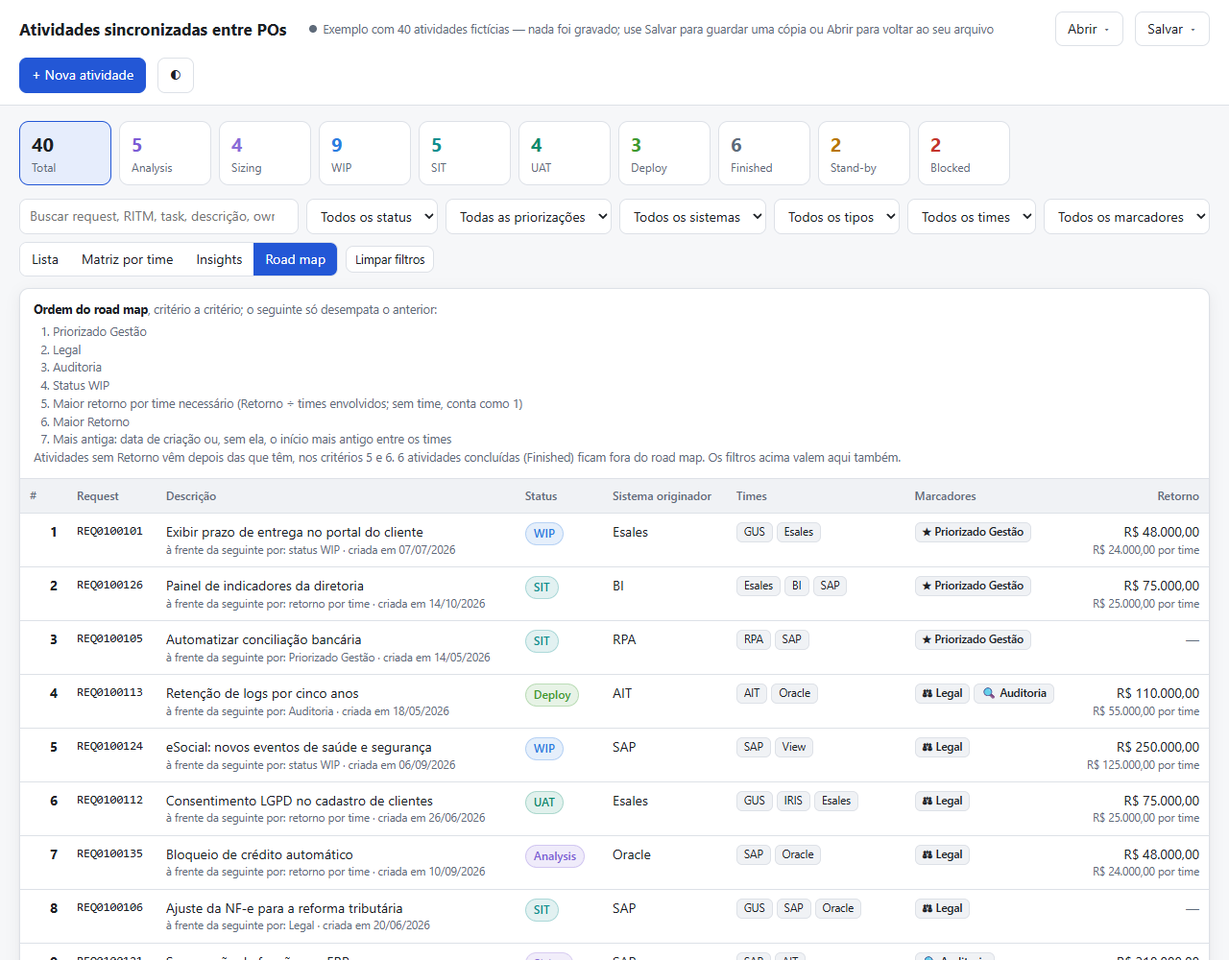
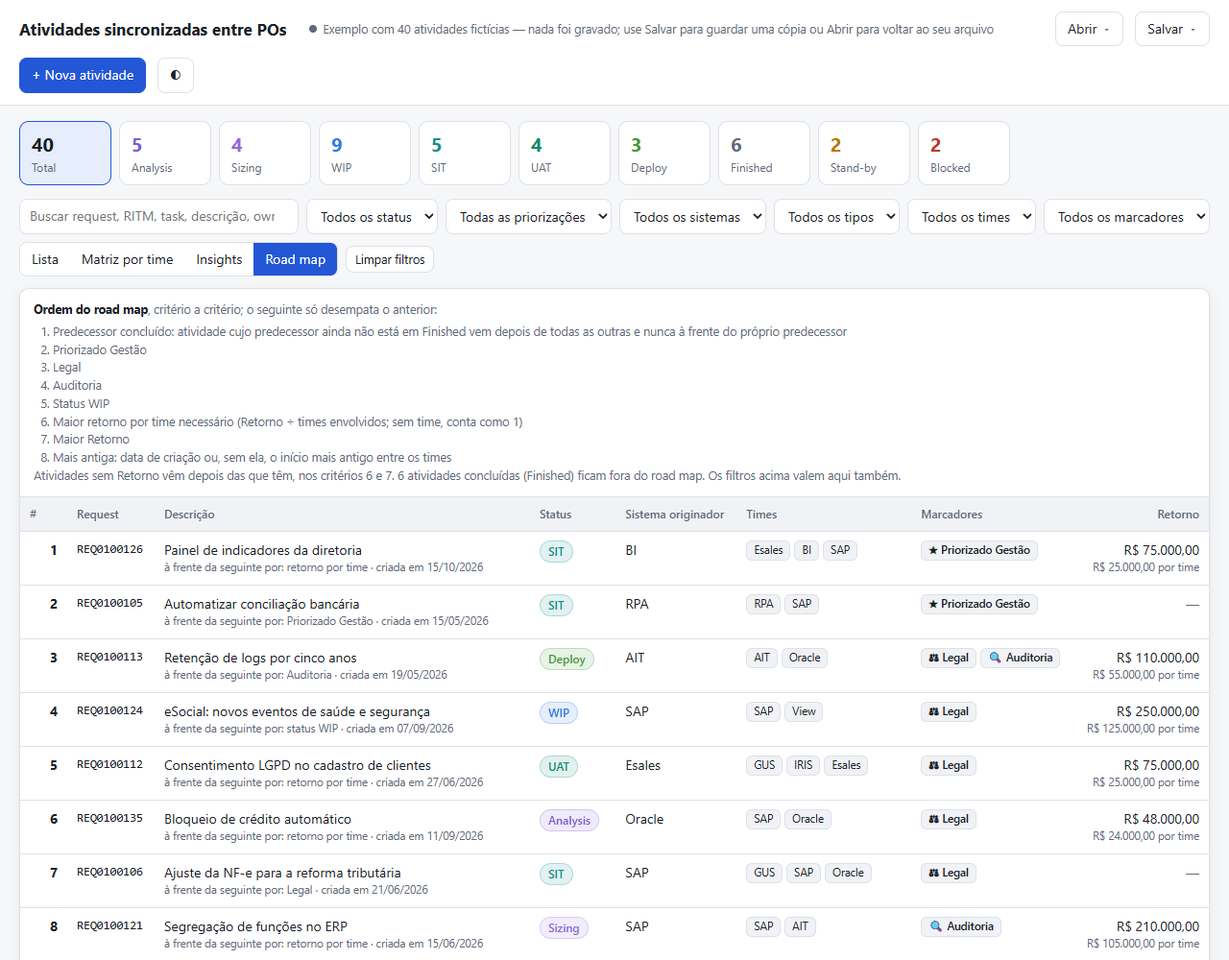
giova(DESKTOP-MGAILV5) 261127095018

diff --git a/AtividadesPO.html b/AtividadesPO.html
@@ -471,7 +471,7 @@ Depois, use Salvar › Salvar JSON para guardar.</pre>
         <li>Clique em <strong>+ Nova atividade</strong>, preencha o Request, escolha Status, Tipo e Sistema originador, digite um Retorno, abra o time <strong>BI</strong>, preencha a task e uma data de SIT e salve. A atividade aparece no topo da lista.</li>
         <li>Clique em <strong>Matriz por time</strong> e localize a nova atividade na coluna BI.</li>
         <li>Clique em <strong>Insights</strong>. No mapa <strong>Times × status</strong>, clique numa célula: o app volta para a lista com o time e o status filtrados.</li>
-        <li>Clique em <strong>Road map</strong>. A primeira posição é a REQ0100101, que tem Priorizado Gestão e está em WIP. Abaixo de cada descrição, o app diz qual critério decidiu a posição.</li>
+        <li>Clique em <strong>Road map</strong>. A primeira posição é a REQ0100126, que tem Priorizado Gestão. A REQ0100101, também Priorizado Gestão e em WIP, aparece entre as últimas, com <strong>⚠ aguarda o predecessor REQ0100114 (Sizing)</strong>, logo depois da própria REQ0100114. Abaixo de cada descrição, o app diz qual critério decidiu a posição.</li>
         <li>Clique em <strong>Salvar › Salvar Excel</strong>. O navegador baixa a planilha <code>Atividades entre POs AAAAMMDD HHmmSS.xlsx</code>.</li>
         <li>Abra a planilha no Excel. Na aba <strong>Atividades</strong>, mude o Status da REQ0100101 para <strong>SIT</strong> e salve no formato .xlsx.</li>
         <li>No app, clique em <strong>Abrir › Abrir Excel</strong> e escolha a planilha. O resumo diz “A planilha tem 41 atividades: 0 novas, 1 alterada, 40 sem alteração”; confirme. Na lista, a REQ0100101 aparece em SIT.</li>
@@ -548,11 +548,11 @@ Depois, use Salvar › Salvar JSON para guardar.</pre>
       <h2 id="h-roadmap-pt">Road map</h2>
       <p>A área <strong>Road map</strong> põe as atividades não concluídas numa ordem de prioridade. Cada critério só desempata o anterior:</p>
       <figure>
-        <img src="rc_images/AtividadesPORoadmap.png" alt="Road map com o exemplo: a explicação dos sete critérios de ordem e a tabela com posição, request, descrição com o critério que decidiu a posição, status, sistema originador, times, marcadores e retorno com o valor por time; nas primeiras posições, as atividades Priorizado Gestão, seguidas das marcadas Legal e Auditoria" loading="lazy" width="1280" height="1000">
+        <img src="rc_images/AtividadesPORoadmap.png" alt="Road map com o exemplo: a explicação dos oito critérios de ordem e a tabela com posição, request, descrição com o critério que decidiu a posição, status, sistema originador, times, marcadores e retorno com o valor por time; nas primeiras posições, as atividades Priorizado Gestão, seguidas das marcadas Legal e Auditoria" loading="lazy" width="1280" height="1000">
         <figcaption>O road map do exemplo. Abaixo de cada descrição, o critério que pôs a atividade à frente da seguinte.</figcaption>
       </figure>
-      <ol><li>Priorizado Gestão;</li><li>Legal;</li><li>Auditoria;</li><li>status WIP;</li><li>maior retorno por time necessário: o Retorno dividido pelo número de times envolvidos (sem time, conta como 1), o que favorece valor alto com poucos times;</li><li>maior Retorno;</li><li>mais antiga: a data de criação ou, sem ela, o início mais antigo entre os times.</li></ol>
-      <p>Atividades sem Retorno vêm depois das que têm, nos critérios 5 e 6, e as que estão em Finished ficam fora. A tabela traz posição, Request, Descrição, Status, Sistema originador, Times, Marcadores e Retorno; quando há mais de um time, o retorno por time aparece abaixo do valor. Abaixo de cada descrição, o app diz qual critério pôs a atividade à frente da seguinte. Os filtros valem também aqui. Clique numa linha, ou chegue a ela com <kbd>Tab</kbd> e tecle <kbd>Enter</kbd>, para abrir a atividade.</p>
+      <ol><li>predecessor concluído: atividade cujo predecessor ainda não está em Finished vem depois de todas as outras, mesmo com Priorizado Gestão, e nunca à frente do próprio predecessor;</li><li>Priorizado Gestão;</li><li>Legal;</li><li>Auditoria;</li><li>status WIP;</li><li>maior retorno por time necessário: o Retorno dividido pelo número de times envolvidos (sem time, conta como 1), o que favorece valor alto com poucos times;</li><li>maior Retorno;</li><li>mais antiga: a data de criação ou, sem ela, o início mais antigo entre os times.</li></ol>
+      <p>Atividades sem Retorno vêm depois das que têm, nos critérios 6 e 7, e as que estão em Finished ficam fora. Abaixo da descrição de uma atividade bloqueada aparece <strong>⚠ aguarda o predecessor</strong>, com o request e o status dele; quando o predecessor passa a Finished, ela volta a disputar posição pelos outros critérios. A tabela traz posição, Request, Descrição, Status, Sistema originador, Times, Marcadores e Retorno; quando há mais de um time, o retorno por time aparece abaixo do valor. Abaixo de cada descrição, o app diz qual critério pôs a atividade à frente da seguinte. Os filtros valem também aqui. Clique numa linha, ou chegue a ela com <kbd>Tab</kbd> e tecle <kbd>Enter</kbd>, para abrir a atividade.</p>
       <blockquote>A ordem é uma sugestão a partir dos campos preenchidos. Retorno em branco ou desatualizado muda a posição, então revise os valores antes de levar o road map a uma reunião.</blockquote>
       <a class="back" href="#top">↑ Voltar ao topo</a>
     </section>
@@ -599,6 +599,7 @@ Depois, use Salvar › Salvar JSON para guardar.</pre>
             <tr><th scope="row">Priorização: Priorizar · Priorizado · Esperando</th><td>Prioritization: Prioritize · Prioritized · Waiting</td><td>Priorità: Da priorizzare · Priorizzata · In attesa</td><td>Priorización: Priorizar · Priorizado · Esperando</td></tr>
             <tr><th scope="row">Sistema originador</th><td>Originating system</td><td>Sistema di origine</td><td>Sistema de origen</td></tr>
             <tr><th scope="row">Road map · Ordem do road map · à frente da seguinte por · por time</th><td>Road map · Road map order · ahead of the next one by · per team</td><td>Road map · Ordine del road map · davanti alla successiva per · per team</td><td>Road map · Orden del road map · delante de la siguiente por · por equipo</td></tr>
+            <tr><th scope="row">predecessor concluído · aguarda o predecessor · é a predecessora dela</th><td>predecessor finished · waiting for the predecessor · it is its predecessor</td><td>predecessore concluso · in attesa del predecessore · è la sua predecessora</td><td>predecesora terminada · espera a la predecesora · es su predecesora</td></tr>
             <tr><th scope="row">Marcadores · Legal · Auditoria · Priorizado Gestão · Todos os marcadores</th><td>Flags · Legal · Audit · Prioritized by management · All flags</td><td>Contrassegni · Legale · Audit · Prioritaria per la direzione · Tutti i contrassegni</td><td>Marcadores · Legal · Auditoría · Priorizado por la gerencia · Todos los marcadores</td></tr>
             <tr><th scope="row">Retorno (R$) · Retorno somado · ⚠ inválido</th><td>Return (R$) · Total return · ⚠ invalid</td><td>Ritorno (R$) · Ritorno totale · ⚠ non valido</td><td>Retorno (R$) · Retorno sumado · ⚠ inválido</td></tr>
             <tr><th scope="row">Predecessor · Nenhuma · ⚠ ainda não concluída</th><td>Predecessor · None · ⚠ not finished yet</td><td>Predecessore · Nessuna · ⚠ non ancora conclusa</td><td>Predecesora · Ninguna · ⚠ aún no terminada</td></tr>
@@ -622,6 +623,7 @@ Depois, use Salvar › Salvar JSON para guardar.</pre>
         <details><summary>5. O gráfico Abertas há mais tempo está vazio. Por quê?</summary><p>Ele usa a data de início dos times. Sem datas de início preenchidas, não há como calcular há quanto tempo a atividade está aberta.</p></details>
         <details><summary>6. Você apagou uma linha na aba Atividades da planilha e importou. O que acontece com a atividade?</summary><p>Ela é removida do app. O resumo antes da importação avisa quantas atividades serão removidas, e você pode cancelar.</p></details>
         <details><summary>7. Como o app sabe a que atividade pertence uma linha da aba Times?</summary><p>Pelo Request. Ele precisa ser igual nas duas abas e aparecer uma única vez na aba Atividades.</p></details>
+        <details><summary>8. Uma atividade com Priorizado Gestão aparece no fim do road map. Por quê?</summary><p>Porque o predecessor dela ainda não está em Finished. Esse é o primeiro critério da ordem: ela só sobe quando o predecessor for concluído.</p></details>
       </div>
       <a class="back" href="#top">↑ Voltar ao topo</a>
     </section>
@@ -851,7 +853,7 @@ Depois, use Salvar › Salvar JSON para guardar.</pre>
         <li>Click <strong>+ Nova atividade</strong>, fill in the Request, choose Status, Type and Originating system, type a Retorno, open the <strong>BI</strong> team, fill in the task and a SIT date and save. The activity appears at the top of the list.</li>
         <li>Click <strong>Matriz por time</strong> and find the new activity in the BI column.</li>
         <li>Click <strong>Insights</strong>. In the <strong>Times × status</strong> map, click a cell: the app goes back to the list with that team and status filtered.</li>
-        <li>Click <strong>Road map</strong>. The first position is REQ0100101, which has Priorizado Gestão and is in WIP. Under each description, the app says which criterion decided the position.</li>
+        <li>Click <strong>Road map</strong>. The first position is REQ0100126, which has Priorizado Gestão. REQ0100101, also Priorizado Gestão and in WIP, appears among the last ones, with <strong>⚠ aguarda o predecessor REQ0100114 (Sizing)</strong> (waiting for the predecessor), right after REQ0100114 itself. Under each description, the app says which criterion decided the position.</li>
         <li>Click <strong>Salvar › Salvar Excel</strong>. The browser downloads the spreadsheet <code>Atividades entre POs YYYYMMDD HHmmSS.xlsx</code>.</li>
         <li>Open the spreadsheet in Excel. In the <strong>Atividades</strong> tab, change the Status of REQ0100101 to <strong>SIT</strong> and save it as .xlsx.</li>
         <li>In the app, click <strong>Abrir › Abrir Excel</strong> and choose the spreadsheet. The summary says “A planilha tem 41 atividades: 0 novas, 1 alterada, 40 sem alteração” (41 activities: 0 new, 1 changed, 40 unchanged); confirm. In the list, REQ0100101 shows SIT.</li>
@@ -928,11 +930,11 @@ Depois, use Salvar › Salvar JSON para guardar.</pre>
       <h2 id="h-roadmap-en">Road map</h2>
       <p>The <strong>Road map</strong> view puts the unfinished activities in priority order. Each criterion only breaks ties of the one before:</p>
       <figure>
-        <img src="rc_images/AtividadesPORoadmap.png" alt="Road map with the sample: the explanation of the seven ordering criteria and the table with position, request, description with the criterion that decided the position, status, originating system, teams, flags and return with the value per team; in the first positions, the Priorizado Gestão activities, followed by those flagged Legal and Auditoria" loading="lazy" width="1280" height="1000">
+        <img src="rc_images/AtividadesPORoadmap.png" alt="Road map with the sample: the explanation of the eight ordering criteria and the table with position, request, description with the criterion that decided the position, status, originating system, teams, flags and return with the value per team; in the first positions, the Priorizado Gestão activities, followed by those flagged Legal and Auditoria" loading="lazy" width="1280" height="1000">
         <figcaption>The road map of the sample. Under each description, the criterion that put the activity ahead of the next one.</figcaption>
       </figure>
-      <ol><li>Priorizado Gestão (prioritized by management);</li><li>Legal;</li><li>Auditoria (audit);</li><li>WIP status;</li><li>highest return per team needed: Retorno divided by the number of teams involved (no team counts as 1), which favors high value with few teams;</li><li>highest Retorno;</li><li>oldest: the creation date or, without it, the earliest start among the teams.</li></ol>
-      <p>Activities without Retorno come after those with one in criteria 5 and 6, and those in Finished are left out. The table shows position, Request, Description, Status, Originating system, Teams, Flags and Return; when there is more than one team, the return per team appears below the value. Under each description, the app says which criterion put the activity ahead of the next one. The filters apply here too. Click a row, or reach it with <kbd>Tab</kbd> and press <kbd>Enter</kbd>, to open the activity.</p>
+      <ol><li>predecessor finished: an activity whose predecessor is not yet in Finished comes after all the others, even with Priorizado Gestão, and never ahead of its own predecessor;</li><li>Priorizado Gestão (prioritized by management);</li><li>Legal;</li><li>Auditoria (audit);</li><li>WIP status;</li><li>highest return per team needed: Retorno divided by the number of teams involved (no team counts as 1), which favors high value with few teams;</li><li>highest Retorno;</li><li>oldest: the creation date or, without it, the earliest start among the teams.</li></ol>
+      <p>Activities without Retorno come after those with one in criteria 6 and 7, and those in Finished are left out. Under the description of a blocked activity the app shows <strong>⚠ aguarda o predecessor</strong> (waiting for the predecessor), with its request and status; once the predecessor moves to Finished, the activity competes for position again by the other criteria. The table shows position, Request, Description, Status, Originating system, Teams, Flags and Return; when there is more than one team, the return per team appears below the value. Under each description, the app says which criterion put the activity ahead of the next one. The filters apply here too. Click a row, or reach it with <kbd>Tab</kbd> and press <kbd>Enter</kbd>, to open the activity.</p>
       <blockquote>The order is a suggestion based on the fields filled in. A blank or outdated Retorno changes the position, so review the values before taking the road map to a meeting.</blockquote>
       <a class="back" href="#top">↑ Back to top</a>
     </section>
@@ -979,6 +981,7 @@ Depois, use Salvar › Salvar JSON para guardar.</pre>
             <tr><th scope="row">Priorização: Priorizar · Priorizado · Esperando</th><td>Prioritization: Prioritize · Prioritized · Waiting</td><td>Priorità: Da priorizzare · Priorizzata · In attesa</td><td>Priorización: Priorizar · Priorizado · Esperando</td></tr>
             <tr><th scope="row">Sistema originador</th><td>Originating system</td><td>Sistema di origine</td><td>Sistema de origen</td></tr>
             <tr><th scope="row">Road map · Ordem do road map · à frente da seguinte por · por time</th><td>Road map · Road map order · ahead of the next one by · per team</td><td>Road map · Ordine del road map · davanti alla successiva per · per team</td><td>Road map · Orden del road map · delante de la siguiente por · por equipo</td></tr>
+            <tr><th scope="row">predecessor concluído · aguarda o predecessor · é a predecessora dela</th><td>predecessor finished · waiting for the predecessor · it is its predecessor</td><td>predecessore concluso · in attesa del predecessore · è la sua predecessora</td><td>predecesora terminada · espera a la predecesora · es su predecesora</td></tr>
             <tr><th scope="row">Marcadores · Legal · Auditoria · Priorizado Gestão · Todos os marcadores</th><td>Flags · Legal · Audit · Prioritized by management · All flags</td><td>Contrassegni · Legale · Audit · Prioritaria per la direzione · Tutti i contrassegni</td><td>Marcadores · Legal · Auditoría · Priorizado por la gerencia · Todos los marcadores</td></tr>
             <tr><th scope="row">Retorno (R$) · Retorno somado · ⚠ inválido</th><td>Return (R$) · Total return · ⚠ invalid</td><td>Ritorno (R$) · Ritorno totale · ⚠ non valido</td><td>Retorno (R$) · Retorno sumado · ⚠ inválido</td></tr>
             <tr><th scope="row">Predecessor · Nenhuma · ⚠ ainda não concluída</th><td>Predecessor · None · ⚠ not finished yet</td><td>Predecessore · Nessuna · ⚠ non ancora conclusa</td><td>Predecesora · Ninguna · ⚠ aún no terminada</td></tr>
@@ -1002,6 +1005,7 @@ Depois, use Salvar › Salvar JSON para guardar.</pre>
         <details><summary>5. The Open the longest chart is empty. Why?</summary><p>It uses the teams' start dates. Without start dates there is no way to compute how long the activity has been open.</p></details>
         <details><summary>6. You deleted a row in the Atividades tab of the spreadsheet and imported it. What happens to the activity?</summary><p>It is removed from the app. The summary before the import says how many activities will be removed, and you can cancel.</p></details>
         <details><summary>7. How does the app know which activity a row of the Times tab belongs to?</summary><p>By the Request. It has to be the same in both tabs and appear only once in the Atividades tab.</p></details>
+        <details><summary>8. An activity with Priorizado Gestão shows up at the end of the road map. Why?</summary><p>Because its predecessor is not yet in Finished. That is the first ordering criterion: it only moves up once the predecessor is finished.</p></details>
       </div>
       <a class="back" href="#top">↑ Back to top</a>
     </section>
@@ -1231,7 +1235,7 @@ Depois, use Salvar › Salvar JSON para guardar.</pre>
         <li>Fai clic su <strong>+ Nova atividade</strong>, compila la Request, scegli Stato, Tipo e Sistema di origine, scrivi un Retorno, apri il team <strong>BI</strong>, compila il task e una data di SIT e salva. L'attività compare in cima all'elenco.</li>
         <li>Fai clic su <strong>Matriz por time</strong> e trova la nuova attività nella colonna BI.</li>
         <li>Fai clic su <strong>Insights</strong>. Nella mappa <strong>Times × status</strong>, fai clic su una cella: l'app torna all'elenco con quel team e quello stato filtrati.</li>
-        <li>Fai clic su <strong>Road map</strong>. La prima posizione è REQ0100101, che ha Priorizado Gestão ed è in WIP. Sotto ogni descrizione, l'app indica quale criterio ha deciso la posizione.</li>
+        <li>Fai clic su <strong>Road map</strong>. La prima posizione è REQ0100126, che ha Priorizado Gestão. REQ0100101, anch'essa Priorizado Gestão e in WIP, compare tra le ultime, con <strong>⚠ aguarda o predecessor REQ0100114 (Sizing)</strong> (in attesa del predecessore), subito dopo la stessa REQ0100114. Sotto ogni descrizione, l'app indica quale criterio ha deciso la posizione.</li>
         <li>Fai clic su <strong>Salvar › Salvar Excel</strong>. Il browser scarica il foglio <code>Atividades entre POs AAAAMMGG HHmmSS.xlsx</code>.</li>
         <li>Apri il foglio in Excel. Nella scheda <strong>Atividades</strong>, cambia lo Status di REQ0100101 in <strong>SIT</strong> e salva in formato .xlsx.</li>
         <li>Nell'app, fai clic su <strong>Abrir › Abrir Excel</strong> e scegli il foglio. Il riepilogo dice “A planilha tem 41 atividades: 0 novas, 1 alterada, 40 sem alteração” (41 attività: 0 nuove, 1 modificata, 40 invariate); conferma. Nell'elenco, REQ0100101 appare in SIT.</li>
@@ -1308,11 +1312,11 @@ Depois, use Salvar › Salvar JSON para guardar.</pre>
       <h2 id="h-roadmap-it">Road map</h2>
       <p>La vista <strong>Road map</strong> mette le attività non concluse in ordine di priorità. Ogni criterio serve solo a sciogliere le parità del precedente:</p>
       <figure>
-        <img src="rc_images/AtividadesPORoadmap.png" alt="Road map con l'esempio: la spiegazione dei sette criteri di ordine e la tabella con posizione, request, descrizione con il criterio che ha deciso la posizione, stato, sistema di origine, team, contrassegni e ritorno con il valore per team; nelle prime posizioni, le attività Priorizado Gestão, seguite da quelle contrassegnate Legal e Auditoria" loading="lazy" width="1280" height="1000">
+        <img src="rc_images/AtividadesPORoadmap.png" alt="Road map con l'esempio: la spiegazione degli otto criteri di ordine e la tabella con posizione, request, descrizione con il criterio che ha deciso la posizione, stato, sistema di origine, team, contrassegni e ritorno con il valore per team; nelle prime posizioni, le attività Priorizado Gestão, seguite da quelle contrassegnate Legal e Auditoria" loading="lazy" width="1280" height="1000">
         <figcaption>Il road map dell'esempio. Sotto ogni descrizione, il criterio che ha messo l'attività davanti alla successiva.</figcaption>
       </figure>
-      <ol><li>Priorizado Gestão (prioritaria per la direzione);</li><li>Legal (legale);</li><li>Auditoria (audit);</li><li>stato WIP;</li><li>maggior ritorno per team necessario: il Retorno diviso per il numero di team coinvolti (senza team conta come 1), il che favorisce valore alto con pochi team;</li><li>maggior Retorno;</li><li>più vecchia: la data di creazione o, in sua assenza, l'inizio più vecchio tra i team.</li></ol>
-      <p>Le attività senza Retorno vengono dopo quelle che lo hanno, nei criteri 5 e 6, e quelle in Finished restano fuori. La tabella mostra posizione, Request, Descrizione, Stato, Sistema di origine, Team, Contrassegni e Ritorno; con più di un team, il ritorno per team compare sotto il valore. Sotto ogni descrizione, l'app indica quale criterio ha messo l'attività davanti alla successiva. Anche qui valgono i filtri. Fai clic su una riga, o raggiungila con <kbd>Tab</kbd> e premi <kbd>Invio</kbd>, per aprire l'attività.</p>
+      <ol><li>predecessore concluso: un'attività il cui predecessore non è ancora in Finished viene dopo tutte le altre, anche con Priorizado Gestão, e mai davanti al proprio predecessore;</li><li>Priorizado Gestão (prioritaria per la direzione);</li><li>Legal (legale);</li><li>Auditoria (audit);</li><li>stato WIP;</li><li>maggior ritorno per team necessario: il Retorno diviso per il numero di team coinvolti (senza team conta come 1), il che favorisce valore alto con pochi team;</li><li>maggior Retorno;</li><li>più vecchia: la data di creazione o, in sua assenza, l'inizio più vecchio tra i team.</li></ol>
+      <p>Le attività senza Retorno vengono dopo quelle che lo hanno, nei criteri 6 e 7, e quelle in Finished restano fuori. Sotto la descrizione di un'attività bloccata compare <strong>⚠ aguarda o predecessor</strong> (in attesa del predecessore), con il suo request e lo stato; quando il predecessore passa a Finished, l'attività torna a contendersi la posizione con gli altri criteri. La tabella mostra posizione, Request, Descrizione, Stato, Sistema di origine, Team, Contrassegni e Ritorno; con più di un team, il ritorno per team compare sotto il valore. Sotto ogni descrizione, l'app indica quale criterio ha messo l'attività davanti alla successiva. Anche qui valgono i filtri. Fai clic su una riga, o raggiungila con <kbd>Tab</kbd> e premi <kbd>Invio</kbd>, per aprire l'attività.</p>
       <blockquote>L'ordine è un suggerimento basato sui campi compilati. Un Retorno vuoto o non aggiornato cambia la posizione, quindi rivedi i valori prima di portare il road map in una riunione.</blockquote>
       <a class="back" href="#top">↑ Torna su</a>
     </section>
@@ -1359,6 +1363,7 @@ Depois, use Salvar › Salvar JSON para guardar.</pre>
             <tr><th scope="row">Priorização: Priorizar · Priorizado · Esperando</th><td>Prioritization: Prioritize · Prioritized · Waiting</td><td>Priorità: Da priorizzare · Priorizzata · In attesa</td><td>Priorización: Priorizar · Priorizado · Esperando</td></tr>
             <tr><th scope="row">Sistema originador</th><td>Originating system</td><td>Sistema di origine</td><td>Sistema de origen</td></tr>
             <tr><th scope="row">Road map · Ordem do road map · à frente da seguinte por · por time</th><td>Road map · Road map order · ahead of the next one by · per team</td><td>Road map · Ordine del road map · davanti alla successiva per · per team</td><td>Road map · Orden del road map · delante de la siguiente por · por equipo</td></tr>
+            <tr><th scope="row">predecessor concluído · aguarda o predecessor · é a predecessora dela</th><td>predecessor finished · waiting for the predecessor · it is its predecessor</td><td>predecessore concluso · in attesa del predecessore · è la sua predecessora</td><td>predecesora terminada · espera a la predecesora · es su predecesora</td></tr>
             <tr><th scope="row">Marcadores · Legal · Auditoria · Priorizado Gestão · Todos os marcadores</th><td>Flags · Legal · Audit · Prioritized by management · All flags</td><td>Contrassegni · Legale · Audit · Prioritaria per la direzione · Tutti i contrassegni</td><td>Marcadores · Legal · Auditoría · Priorizado por la gerencia · Todos los marcadores</td></tr>
             <tr><th scope="row">Retorno (R$) · Retorno somado · ⚠ inválido</th><td>Return (R$) · Total return · ⚠ invalid</td><td>Ritorno (R$) · Ritorno totale · ⚠ non valido</td><td>Retorno (R$) · Retorno sumado · ⚠ inválido</td></tr>
             <tr><th scope="row">Predecessor · Nenhuma · ⚠ ainda não concluída</th><td>Predecessor · None · ⚠ not finished yet</td><td>Predecessore · Nessuna · ⚠ non ancora conclusa</td><td>Predecesora · Ninguna · ⚠ aún no terminada</td></tr>
@@ -1382,6 +1387,7 @@ Depois, use Salvar › Salvar JSON para guardar.</pre>
         <details><summary>5. Il grafico delle attività aperte da più tempo è vuoto. Perché?</summary><p>Usa le date di inizio dei team. Senza date di inizio non si può calcolare da quanto tempo l'attività è aperta.</p></details>
         <details><summary>6. Hai cancellato una riga nella scheda Atividades del foglio e l'hai importato. Cosa succede all'attività?</summary><p>Viene rimossa dall'app. Il riepilogo prima dell'importazione dice quante attività saranno rimosse, e puoi annullare.</p></details>
         <details><summary>7. Come sa l'app a quale attività appartiene una riga della scheda Times?</summary><p>Dal Request. Deve essere uguale nelle due schede e comparire una sola volta nella scheda Atividades.</p></details>
+        <details><summary>8. Un'attività con Priorizado Gestão compare in fondo al road map. Perché?</summary><p>Perché il suo predecessore non è ancora in Finished. È il primo criterio dell'ordine: sale solo quando il predecessore è concluso.</p></details>
       </div>
       <a class="back" href="#top">↑ Torna su</a>
     </section>
@@ -1611,7 +1617,7 @@ Depois, use Salvar › Salvar JSON para guardar.</pre>
         <li>Haz clic en <strong>+ Nova atividade</strong>, completa el Request, elige Estado, Tipo y Sistema de origen, escribe un Retorno, abre el equipo <strong>BI</strong>, completa la task y una fecha de SIT y guarda. La actividad aparece arriba de la lista.</li>
         <li>Haz clic en <strong>Matriz por time</strong> y ubica la nueva actividad en la columna BI.</li>
         <li>Haz clic en <strong>Insights</strong>. En el mapa <strong>Times × status</strong>, haz clic en una celda: la app vuelve a la lista con ese equipo y ese estado filtrados.</li>
-        <li>Haz clic en <strong>Road map</strong>. La primera posición es REQ0100101, que tiene Priorizado Gestão y está en WIP. Bajo cada descripción, la app dice qué criterio decidió la posición.</li>
+        <li>Haz clic en <strong>Road map</strong>. La primera posición es REQ0100126, que tiene Priorizado Gestão. REQ0100101, también Priorizado Gestão y en WIP, aparece entre las últimas, con <strong>⚠ aguarda o predecessor REQ0100114 (Sizing)</strong> (espera a la predecesora), justo después de la propia REQ0100114. Bajo cada descripción, la app dice qué criterio decidió la posición.</li>
         <li>Haz clic en <strong>Salvar › Salvar Excel</strong>. El navegador descarga la planilla <code>Atividades entre POs AAAAMMDD HHmmSS.xlsx</code>.</li>
         <li>Abre la planilla en Excel. En la hoja <strong>Atividades</strong>, cambia el Status de REQ0100101 a <strong>SIT</strong> y guarda en formato .xlsx.</li>
         <li>En la app, haz clic en <strong>Abrir › Abrir Excel</strong> y elige la planilla. El resumen dice “A planilha tem 41 atividades: 0 novas, 1 alterada, 40 sem alteração” (41 actividades: 0 nuevas, 1 cambiada, 40 sin cambios); confirma. En la lista, REQ0100101 aparece en SIT.</li>
@@ -1688,11 +1694,11 @@ Depois, use Salvar › Salvar JSON para guardar.</pre>
       <h2 id="h-roadmap-es">Road map</h2>
       <p>La vista <strong>Road map</strong> ordena por prioridad las actividades no terminadas. Cada criterio solo desempata el anterior:</p>
       <figure>
-        <img src="rc_images/AtividadesPORoadmap.png" alt="Road map con el ejemplo: la explicación de los siete criterios de orden y la tabla con posición, request, descripción con el criterio que decidió la posición, estado, sistema de origen, equipos, marcadores y retorno con el valor por equipo; en las primeras posiciones, las actividades Priorizado Gestão, seguidas de las marcadas Legal y Auditoria" loading="lazy" width="1280" height="1000">
+        <img src="rc_images/AtividadesPORoadmap.png" alt="Road map con el ejemplo: la explicación de los ocho criterios de orden y la tabla con posición, request, descripción con el criterio que decidió la posición, estado, sistema de origen, equipos, marcadores y retorno con el valor por equipo; en las primeras posiciones, las actividades Priorizado Gestão, seguidas de las marcadas Legal y Auditoria" loading="lazy" width="1280" height="1000">
         <figcaption>El road map del ejemplo. Bajo cada descripción, el criterio que puso la actividad delante de la siguiente.</figcaption>
       </figure>
-      <ol><li>Priorizado Gestão (priorizado por la gerencia);</li><li>Legal;</li><li>Auditoria (auditoría);</li><li>estado WIP;</li><li>mayor retorno por equipo necesario: el Retorno dividido por el número de equipos involucrados (sin equipo cuenta como 1), lo que favorece valor alto con pocos equipos;</li><li>mayor Retorno;</li><li>más antigua: la fecha de creación o, sin ella, el inicio más antiguo entre los equipos.</li></ol>
-      <p>Las actividades sin Retorno van después de las que lo tienen, en los criterios 5 y 6, y las que están en Finished quedan fuera. La tabla muestra posición, Request, Descripción, Estado, Sistema de origen, Equipos, Marcadores y Retorno; con más de un equipo, el retorno por equipo aparece bajo el valor. Bajo cada descripción, la app dice qué criterio puso la actividad delante de la siguiente. Los filtros también valen aquí. Haz clic en una fila, o llega a ella con <kbd>Tab</kbd> y pulsa <kbd>Enter</kbd>, para abrir la actividad.</p>
+      <ol><li>predecesora terminada: una actividad cuya predecesora todavía no está en Finished va después de todas las demás, aunque tenga Priorizado Gestão, y nunca delante de su propia predecesora;</li><li>Priorizado Gestão (priorizado por la gerencia);</li><li>Legal;</li><li>Auditoria (auditoría);</li><li>estado WIP;</li><li>mayor retorno por equipo necesario: el Retorno dividido por el número de equipos involucrados (sin equipo cuenta como 1), lo que favorece valor alto con pocos equipos;</li><li>mayor Retorno;</li><li>más antigua: la fecha de creación o, sin ella, el inicio más antiguo entre los equipos.</li></ol>
+      <p>Las actividades sin Retorno van después de las que lo tienen, en los criterios 6 y 7, y las que están en Finished quedan fuera. Bajo la descripción de una actividad bloqueada aparece <strong>⚠ aguarda o predecessor</strong> (espera a la predecesora), con su request y estado; cuando la predecesora pasa a Finished, la actividad vuelve a competir por la posición con los demás criterios. La tabla muestra posición, Request, Descripción, Estado, Sistema de origen, Equipos, Marcadores y Retorno; con más de un equipo, el retorno por equipo aparece bajo el valor. Bajo cada descripción, la app dice qué criterio puso la actividad delante de la siguiente. Los filtros también valen aquí. Haz clic en una fila, o llega a ella con <kbd>Tab</kbd> y pulsa <kbd>Enter</kbd>, para abrir la actividad.</p>
       <blockquote>El orden es una sugerencia basada en los campos completados. Un Retorno en blanco o desactualizado cambia la posición, así que revisa los valores antes de llevar el road map a una reunión.</blockquote>
       <a class="back" href="#top">↑ Volver arriba</a>
     </section>
@@ -1739,6 +1745,7 @@ Depois, use Salvar › Salvar JSON para guardar.</pre>
             <tr><th scope="row">Priorização: Priorizar · Priorizado · Esperando</th><td>Prioritization: Prioritize · Prioritized · Waiting</td><td>Priorità: Da priorizzare · Priorizzata · In attesa</td><td>Priorización: Priorizar · Priorizado · Esperando</td></tr>
             <tr><th scope="row">Sistema originador</th><td>Originating system</td><td>Sistema di origine</td><td>Sistema de origen</td></tr>
             <tr><th scope="row">Road map · Ordem do road map · à frente da seguinte por · por time</th><td>Road map · Road map order · ahead of the next one by · per team</td><td>Road map · Ordine del road map · davanti alla successiva per · per team</td><td>Road map · Orden del road map · delante de la siguiente por · por equipo</td></tr>
+            <tr><th scope="row">predecessor concluído · aguarda o predecessor · é a predecessora dela</th><td>predecessor finished · waiting for the predecessor · it is its predecessor</td><td>predecessore concluso · in attesa del predecessore · è la sua predecessora</td><td>predecesora terminada · espera a la predecesora · es su predecesora</td></tr>
             <tr><th scope="row">Marcadores · Legal · Auditoria · Priorizado Gestão · Todos os marcadores</th><td>Flags · Legal · Audit · Prioritized by management · All flags</td><td>Contrassegni · Legale · Audit · Prioritaria per la direzione · Tutti i contrassegni</td><td>Marcadores · Legal · Auditoría · Priorizado por la gerencia · Todos los marcadores</td></tr>
             <tr><th scope="row">Retorno (R$) · Retorno somado · ⚠ inválido</th><td>Return (R$) · Total return · ⚠ invalid</td><td>Ritorno (R$) · Ritorno totale · ⚠ non valido</td><td>Retorno (R$) · Retorno sumado · ⚠ inválido</td></tr>
             <tr><th scope="row">Predecessor · Nenhuma · ⚠ ainda não concluída</th><td>Predecessor · None · ⚠ not finished yet</td><td>Predecessore · Nessuna · ⚠ non ancora conclusa</td><td>Predecesora · Ninguna · ⚠ aún no terminada</td></tr>
@@ -1762,6 +1769,7 @@ Depois, use Salvar › Salvar JSON para guardar.</pre>
         <details><summary>5. El gráfico de las abiertas hace más tiempo está vacío. ¿Por qué?</summary><p>Usa las fechas de inicio de los equipos. Sin fechas de inicio no hay cómo calcular hace cuánto tiempo está abierta la actividad.</p></details>
         <details><summary>6. Borraste una fila en la hoja Atividades de la planilla y la importaste. ¿Qué pasa con la actividad?</summary><p>Se elimina de la app. El resumen antes de importar dice cuántas actividades se eliminarán, y puedes cancelar.</p></details>
         <details><summary>7. ¿Cómo sabe la app a qué actividad pertenece una fila de la hoja Times?</summary><p>Por el Request. Tiene que ser igual en las dos hojas y aparecer una sola vez en la hoja Atividades.</p></details>
+        <details><summary>8. Una actividad con Priorizado Gestão aparece al final del road map. ¿Por qué?</summary><p>Porque su predecesora todavía no está en Finished. Es el primer criterio del orden: solo sube cuando la predecesora termina.</p></details>
       </div>
       <a class="back" href="#top">↑ Volver al inicio</a>
     </section>

diff --git a/atividades-po.html b/atividades-po.html
@@ -904,9 +904,12 @@ function render(){
   }
 }
 /* ---------- road map ----------
-   Atividades não concluídas, nesta ordem: 1) Priorizado Gestão; 2) Legal; 3) Auditoria; 4) status WIP;
-   5) maior retorno por time (Retorno ÷ times envolvidos); 6) maior Retorno; 7) mais antiga (criação; sem ela, o início mais antigo entre os times).
-   Atividade sem Retorno vem depois das que têm, nos critérios 5 e 6. */
+   Atividades não concluídas, nesta ordem: 1) sem predecessor pendente (predecessor fora de Finished vai para o fim);
+   2) Priorizado Gestão; 3) Legal; 4) Auditoria; 5) status WIP;
+   6) maior retorno por time (Retorno ÷ times envolvidos); 7) maior Retorno; 8) mais antiga (criação; sem ela, o início mais antigo entre os times).
+   Atividade sem Retorno vem depois das que têm, nos critérios 6 e 7. Depois da ordenação, nenhuma atividade fica à frente da sua predecessora. */
+// predecessor ainda não concluído, qualquer que seja o status da própria atividade
+const rmBlocked = a => { const p = predOf(a); return !!(p && p.status!=='Finished'); };
 const rmTeams = a => Object.keys(a.times||{}).filter(t=>a.times[t]).length;
 const rmPer = a => typeof a.retorno==='number' ? a.retorno / Math.max(1, rmTeams(a)) : null;
 function rmSince(a){
@@ -918,6 +921,7 @@ function rmSince(a){
 }
 const rmDesc = (x, y) => x==null && y==null ? 0 : x==null ? 1 : y==null ? -1 : y - x;
 const RM_RULES = [
+  ['predecessor concluído', (a,b)=>rmBlocked(a)-rmBlocked(b)],
   ['Priorizado Gestão', (a,b)=>(b.priorizadoGestao===true)-(a.priorizadoGestao===true)],
   ['Legal', (a,b)=>(b.legal===true)-(a.legal===true)],
   ['Auditoria', (a,b)=>(b.auditoria===true)-(a.auditoria===true)],
@@ -927,28 +931,41 @@ const RM_RULES = [
   ['mais antiga', (a,b)=>{ const x = rmSince(a).t, y = rmSince(b).t; return x===y ? 0 : x < y ? -1 : 1; }],
 ];
 function roadmap(rows){
-  return rows.filter(a=>a.status!=='Finished').sort((a,b)=>{
+  const sorted = rows.filter(a=>a.status!=='Finished').sort((a,b)=>{
     for (const [,f] of RM_RULES){ const d = f(a,b); if (d) return d; }
     return String(a.request||'').localeCompare(String(b.request||''),'pt-BR');
   });
+  // cadeias (A → B → C): cada atividade entra só depois da sua predecessora, se ela também estiver no road map;
+  // entre as que podem entrar, vale a ordem dos critérios. Num ciclo, entra a primeira que sobrou.
+  const inList = new Set(sorted.map(a=>a.id)), placed = new Set(), out = [], rest = sorted.slice();
+  while (rest.length){
+    let i = rest.findIndex(a=>!inList.has(a.predecessor) || placed.has(a.predecessor));
+    if (i < 0) i = 0;
+    const [a] = rest.splice(i, 1); out.push(a); placed.add(a.id);
+  }
+  return out;
 }
-// o critério que põe a atividade à frente da seguinte (o primeiro em que as duas diferem)
+// o motivo de a atividade estar à frente da seguinte: o primeiro critério em que as duas diferem ou, se os critérios
+// diziam o contrário, ser a predecessora dela
 function rmWhy(a, next){
   if (!next) return '';
-  for (const [l,f] of RM_RULES) if (f(a,next) < 0) return 'à frente da seguinte por: ' + l;
+  for (const [l,f] of RM_RULES){ const d = f(a,next); if (d < 0) return 'à frente da seguinte por: ' + l; if (d > 0) break; }
+  if (next.predecessor === a.id) return 'à frente da seguinte por: é a predecessora dela';
   return 'empate com a seguinte; ordem pelo request';
 }
+const rmWait = a => { if (!rmBlocked(a)) return ''; const p = predOf(a); return `aguarda o predecessor ${p.request || '(sem request)'} (${p.status || '—'})`; };
 function roadmapHTML(rows){
   const list = roadmap(rows), fin = rows.length - list.length;
   const how = `<div class="rm-how"><b>Ordem do road map</b>, critério a critério; o seguinte só desempata o anterior:<ol>
+    <li>Predecessor concluído: atividade cujo predecessor ainda não está em Finished vem depois de todas as outras e nunca à frente do próprio predecessor</li>
     <li>Priorizado Gestão</li><li>Legal</li><li>Auditoria</li><li>Status WIP</li>
     <li>Maior retorno por time necessário (Retorno ÷ times envolvidos; sem time, conta como 1)</li>
     <li>Maior Retorno</li><li>Mais antiga: data de criação ou, sem ela, o início mais antigo entre os times</li></ol>
-    Atividades sem Retorno vêm depois das que têm, nos critérios 5 e 6. ${fin ? `${fin} ${plural(fin,'atividade concluída (Finished) fica','atividades concluídas (Finished) ficam')} fora do road map.` : ''} Os filtros acima valem aqui também.</div>`;
+    Atividades sem Retorno vêm depois das que têm, nos critérios 6 e 7. ${fin ? `${fin} ${plural(fin,'atividade concluída (Finished) fica','atividades concluídas (Finished) ficam')} fora do road map.` : ''} Os filtros acima valem aqui também.</div>`;
   if (!list.length) return how + `<div class="empty">Nenhuma atividade pendente.</div>`;
   return how + `<table><thead><tr><th>#</th><th>Request</th><th>Descrição</th><th>Status</th><th>Sistema originador</th><th>Times</th><th>Marcadores</th><th class="money">Retorno</th></tr></thead><tbody>` +
-    list.map((a,i)=>{ const nt = rmTeams(a), per = rmPer(a), why = rmWhy(a, list[i+1]);
-      return `<tr data-id="${esc(a.id)}" tabindex="0" aria-label="${esc(`Posição ${i+1}: ${a.request||''} ${a.descricao||''}. ${why}`)}"><td class="rm-pos" title="${esc(why)}">${i+1}</td><td class="mono">${esc(a.request)}</td><td class="desc">${esc(a.descricao)}<span class="rm-why">${esc(why)}${why?' · ':''}${esc(rmSince(a).l)}</span></td><td>${badge(a.status)}</td><td>${esc(a.sistema) || '<span class="muted">—</span>'}</td>` +
+    list.map((a,i)=>{ const nt = rmTeams(a), per = rmPer(a), why = rmWhy(a, list[i+1]), wait = rmWait(a);
+      return `<tr data-id="${esc(a.id)}" tabindex="0" aria-label="${esc(`Posição ${i+1}: ${a.request||''} ${a.descricao||''}. ${wait ? wait + '. ' : ''}${why}`)}"><td class="rm-pos" title="${esc(why)}">${i+1}</td><td class="mono">${esc(a.request)}</td><td class="desc">${esc(a.descricao)}${wait ? `<span class="rm-why"><span class="pwarn">⚠ ${esc(wait)}</span></span>` : ''}<span class="rm-why">${esc(why)}${why?' · ':''}${esc(rmSince(a).l)}</span></td><td>${badge(a.status)}</td><td>${esc(a.sistema) || '<span class="muted">—</span>'}</td>` +
         `<td>${nt ? `<div class="chips">${db.times.filter(t=>a.times[t]).map(t=>`<span class="chip">${esc(t)}</span>`).join('')}</div>` : '<span class="muted">nenhum</span>'}</td>` +
         `<td>${flagTags(a) ? `<div class="flagset">${flagTags(a)}</div>` : '<span class="muted">—</span>'}</td>` +
         `<td class="money">${retCell(a)}${per!=null && nt>1 ? `<span class="rm-per">${esc(fmtBRL(per))} por time</span>` : ''}</td></tr>`; }).join('') + `</tbody></table>`;
